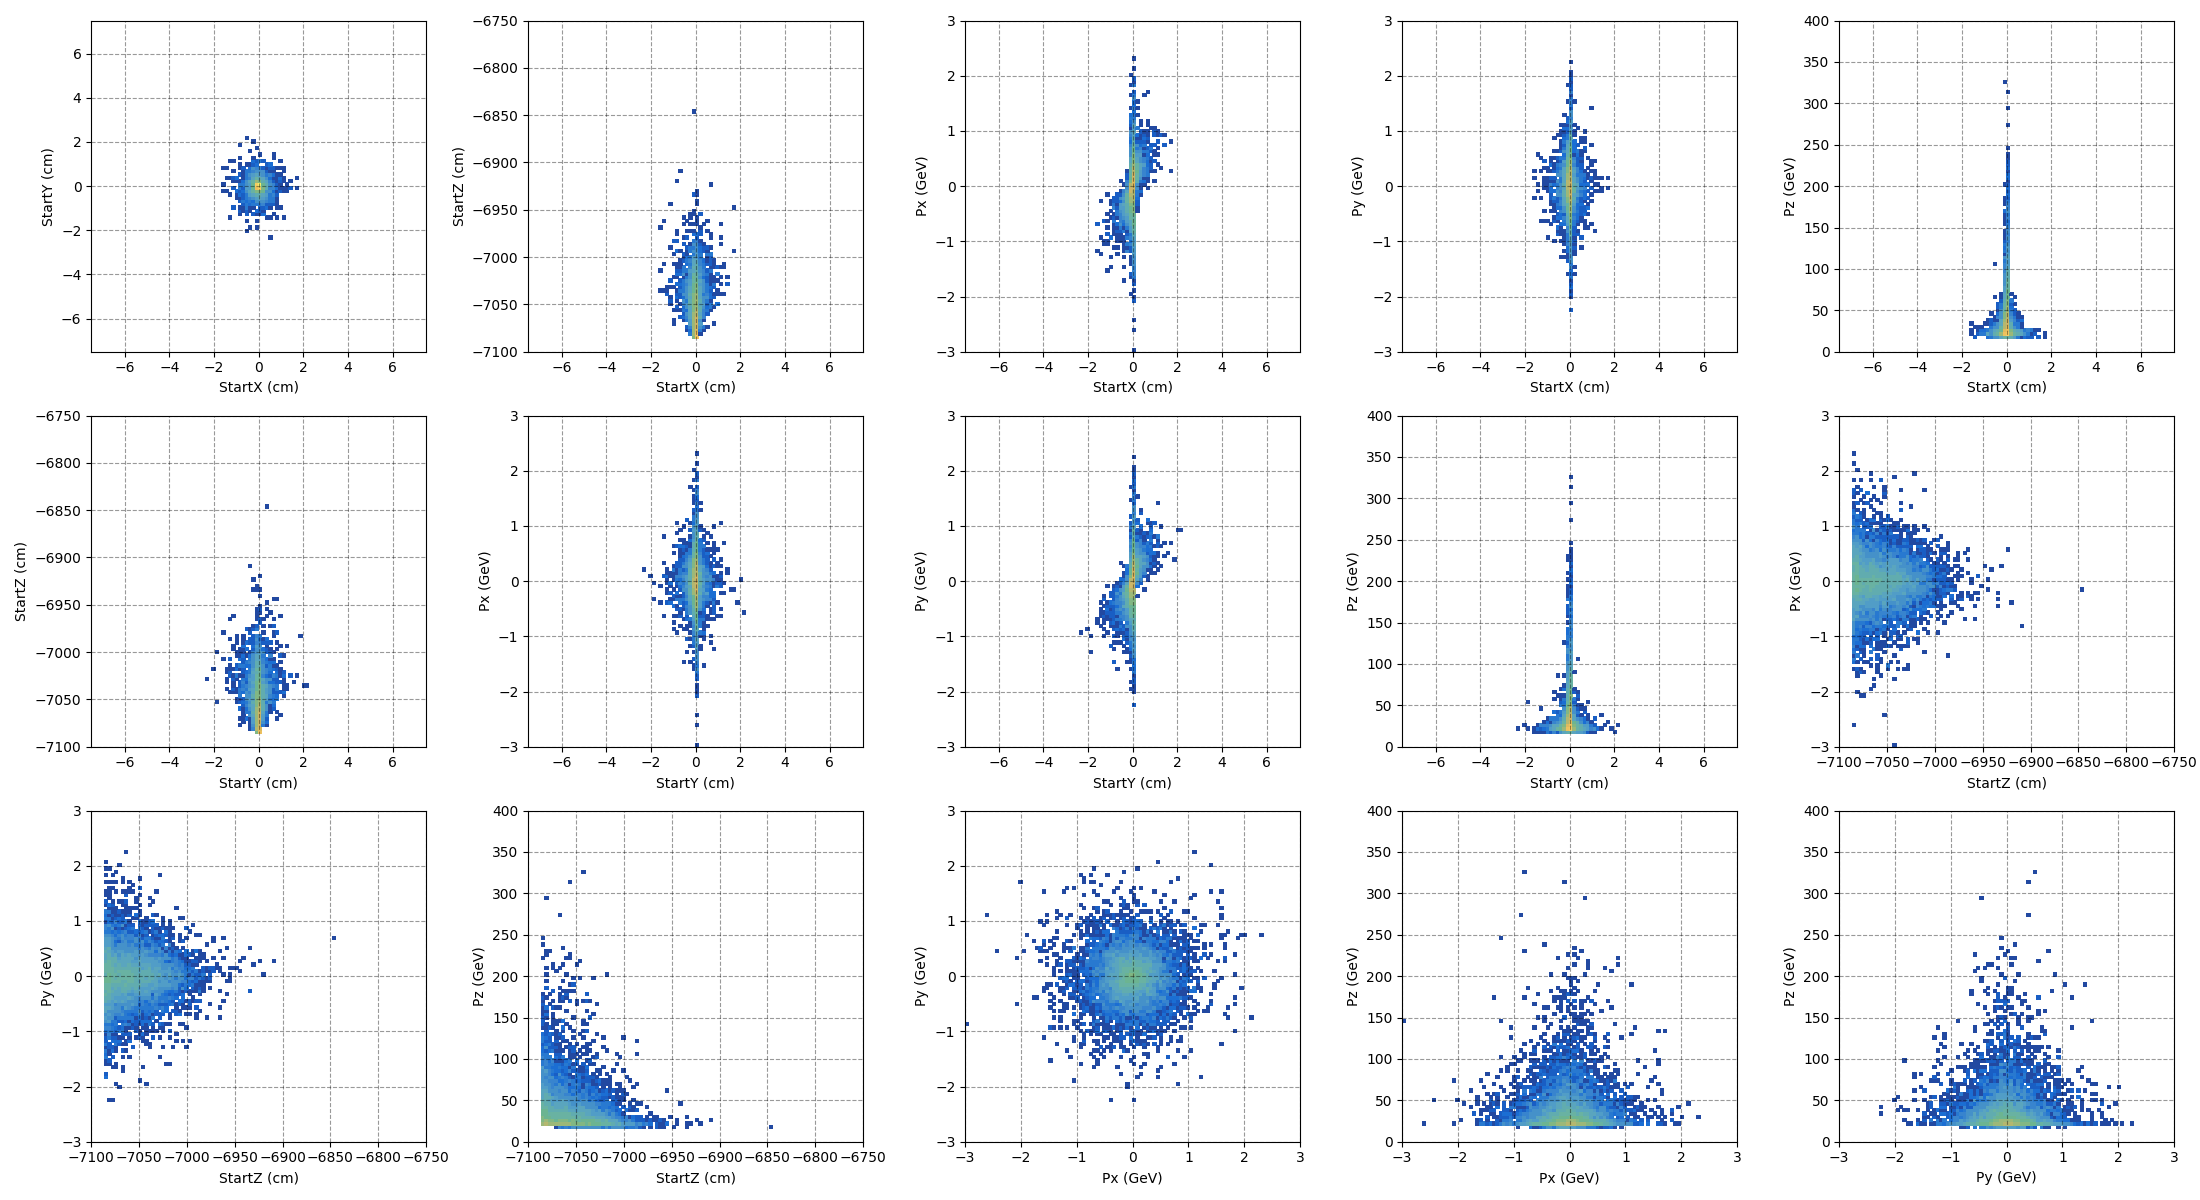
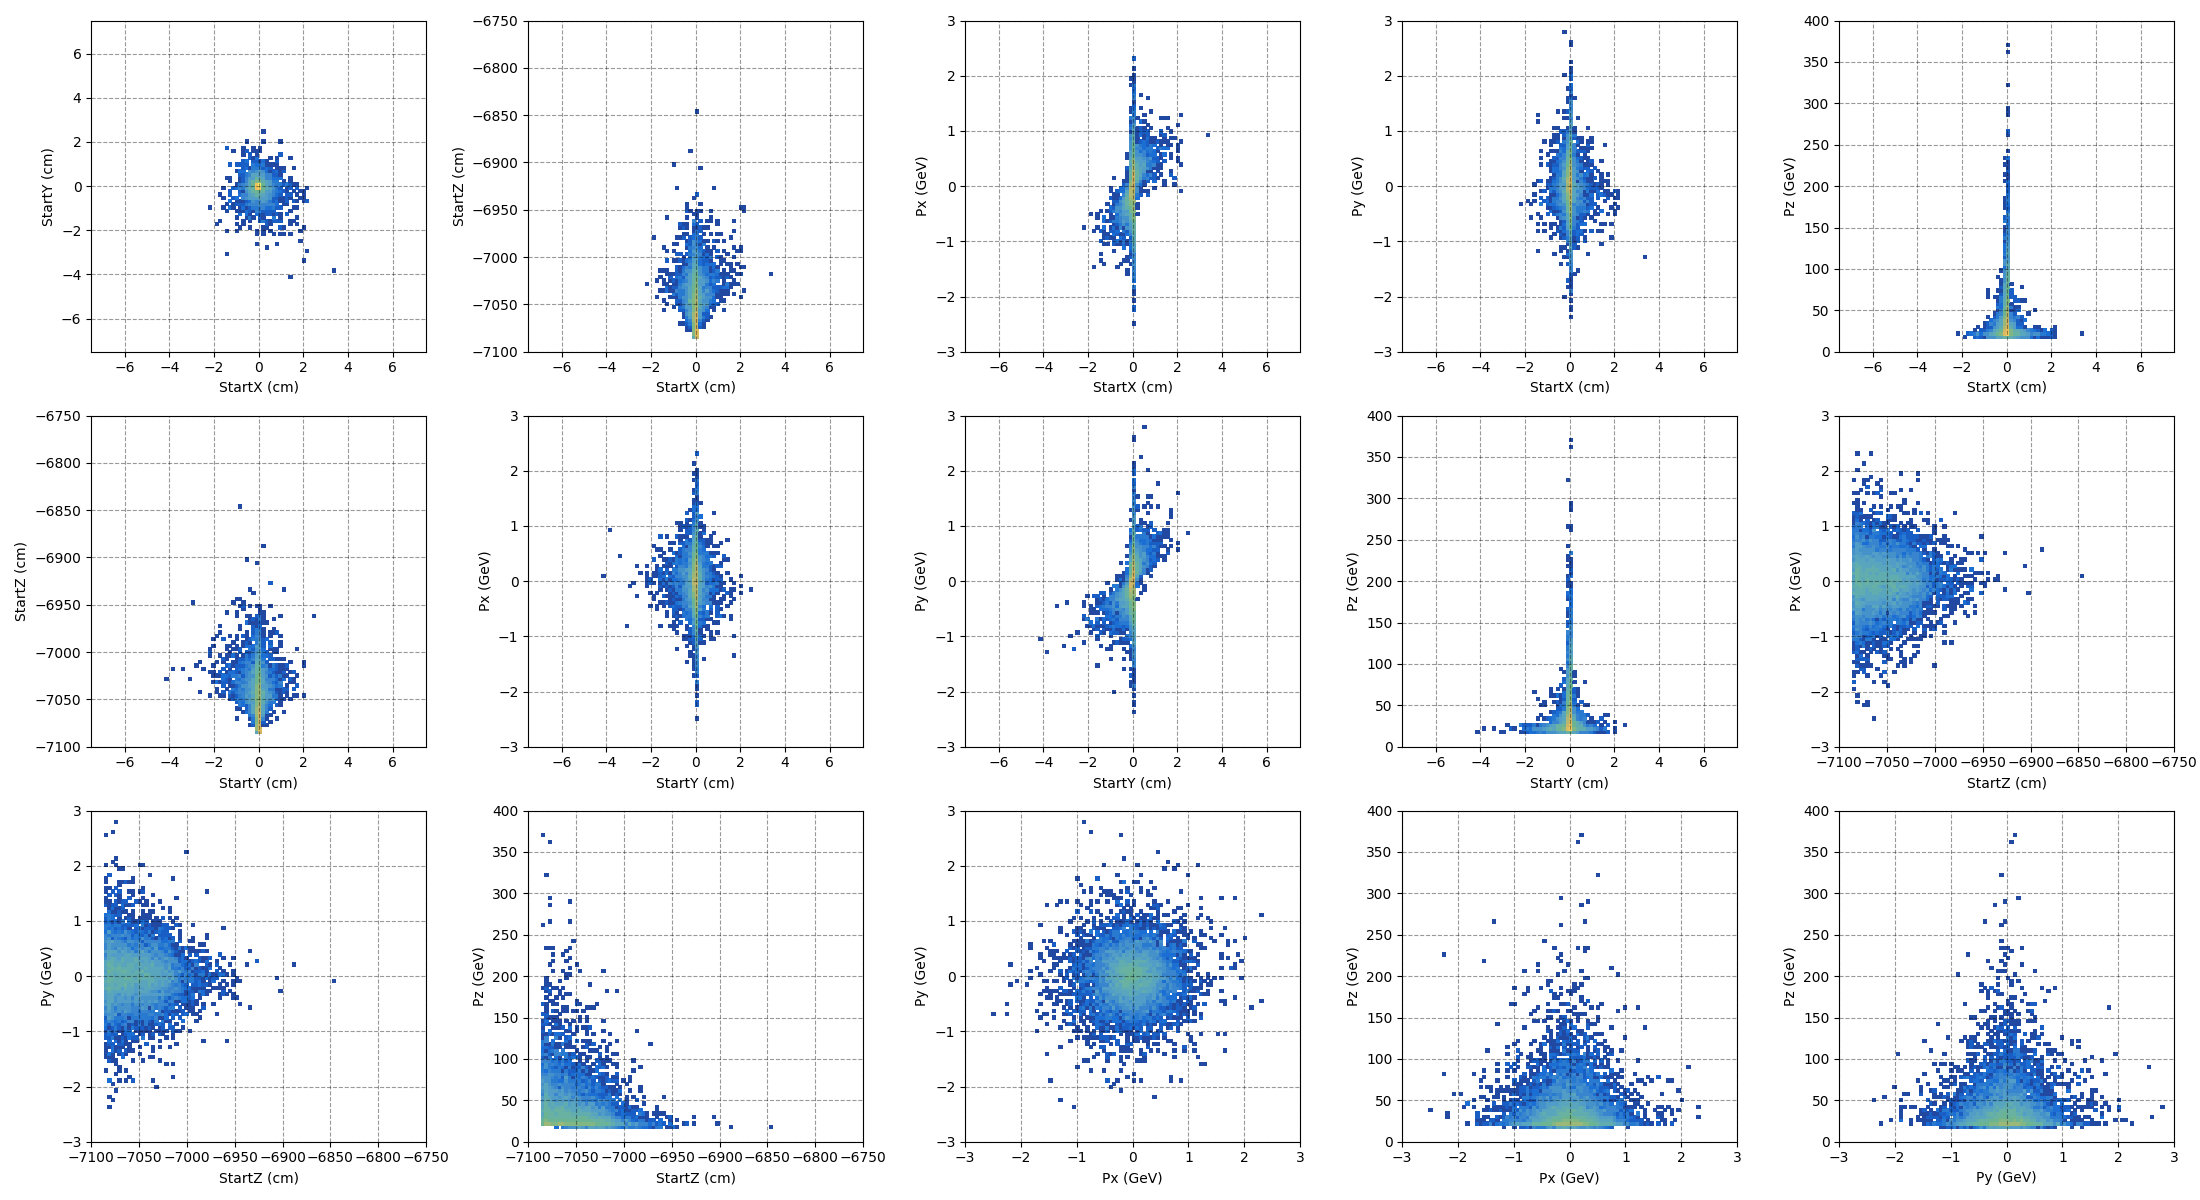
add tuned aux values

diff --git a/SHiP_GAN_module/muGAN.py b/SHiP_GAN_module/muGAN.py
@@ -101,17 +101,106 @@ class muGAN:
 		return self.min_max_plot, self.cmp_root, self.axis_titles
 
 
+	def generate_aux_tuned(self, size):
+		''' Generate tuned auxiliary distribution, will parameterise later. '''
+
+		xy_aux = np.abs(np.random.gumbel(loc=0.1,scale=0.8,size=(size)))
+
+		####################
+
+		z_aux = np.abs(np.random.normal(loc=0,scale=1,size=(size)))
+		fraction_gumbel = 1E-2
+		floor = int(np.floor(size*fraction_gumbel))
+		if floor > 0:
+			number = np.random.poisson(lam=floor)
+			if number > 0:
+				z_aux[-number:] = np.abs(np.random.gumbel(loc=0,scale=1,size=(np.shape(z_aux[-number:]))))
+				z_aux = np.take(z_aux,np.random.permutation(z_aux.shape[0]),axis=0,out=z_aux)
+
+		fraction_low_to_redistribute = 0.27
+
+		floor = int(np.floor(size*fraction_low_to_redistribute))
+		if floor > 0:
+			number = np.random.poisson(lam=floor)
+			list_for_np_choice = np.arange(0, np.shape(z_aux)[0])
+			redistribute = np.random.choice(list_for_np_choice, p=(1/(z_aux))/np.sum(1/(z_aux)), size=number, replace=False)
+			if number > 0:
+				z_aux_non_delete = np.delete(z_aux, redistribute, axis=0)
+				list_for_np_choice = np.arange(0, np.shape(z_aux_non_delete)[0])
+				z_aux[redistribute] = z_aux_non_delete[np.random.choice(list_for_np_choice, size=np.shape(z_aux[redistribute])[0], replace=False)]
+		####################
 
 
-	def generate(self, size):
+		pxpy_aux = np.abs(np.random.normal(loc=0,scale=1,size=(size)))
+		fraction_gumbel = 1E-2
+		floor = int(np.floor(size*fraction_gumbel))
+		if floor > 0:
+			number = np.random.poisson(lam=floor)
+			if number > 0:
+				pxpy_aux[-number:] = np.abs(np.random.gumbel(loc=0,scale=1,size=(np.shape(pxpy_aux[-number:]))))
+				pxpy_aux = np.take(pxpy_aux,np.random.permutation(pxpy_aux.shape[0]),axis=0,out=pxpy_aux)
+
+
+		fraction_low_to_redistribute = 0.12
+
+		floor = int(np.floor(size*fraction_low_to_redistribute))
+		if floor > 0:
+			number = np.random.poisson(lam=floor)
+			list_for_np_choice = np.arange(0, np.shape(pxpy_aux)[0])
+			redistribute = np.random.choice(list_for_np_choice, p=(1/(pxpy_aux))/np.sum(1/(pxpy_aux)), size=number, replace=False)
+			if number > 0:
+				z_aux_non_delete = np.delete(pxpy_aux, redistribute, axis=0)
+				list_for_np_choice = np.arange(0, np.shape(z_aux_non_delete)[0])
+				pxpy_aux[redistribute] = z_aux_non_delete[np.random.choice(list_for_np_choice, size=np.shape(pxpy_aux[redistribute])[0], replace=False)]
+
+
+		####################
+
+		pz_aux = np.abs(np.random.normal(loc=0,scale=1,size=(size)))
+		fraction_wider = 0.005
+		floor = int(np.floor(size*fraction_wider))
+		if floor > 0:
+			number = np.random.poisson(lam=floor)
+			if number > 0:
+				pz_aux[-number:] = np.abs(np.random.normal(loc=0,scale=1.3,size=(np.shape(pz_aux[-number:]))))
+				pz_aux = np.take(pz_aux,np.random.permutation(pz_aux.shape[0]),axis=0,out=pz_aux)
+
+		fraction_low_to_redistribute = 0.2
+
+		floor = int(np.floor(size*fraction_low_to_redistribute))
+		if floor > 0:
+			number = np.random.poisson(lam=floor)
+			list_for_np_choice = np.arange(0, np.shape(pz_aux)[0])
+			redistribute = np.random.choice(list_for_np_choice, p=(1/(pz_aux))/np.sum(1/(pz_aux)), size=number, replace=False)
+			if number > 0:
+				z_aux_non_delete = np.delete(pz_aux, redistribute, axis=0)
+				list_for_np_choice = np.arange(0, np.shape(z_aux_non_delete)[0])
+				pz_aux[redistribute] = z_aux_non_delete[np.random.choice(list_for_np_choice, size=np.shape(pz_aux[redistribute])[0], replace=False)]
+
+		####################
+
+		length = np.amin([np.shape(z_aux)[0], np.shape(xy_aux)[0], np.shape(pxpy_aux)[0], np.shape(pz_aux)[0]])
+
+		tuned_aux = np.swapaxes([xy_aux[:length], z_aux[:length], pxpy_aux[:length], pz_aux[:length]],0,1)
+
+		return tuned_aux
+
+
+
+
+
+	def generate(self, size, tuned_aux = True):
 		''' Generate muon kinematic vectors with normally distributed auxiliary values. '''
 
 		if size > 50000:
-			images = self.generate_large(size)	
+			images = self.generate_large(size, tuned_aux)	
 		else:
 			generator = self.load_generator()
 
-			aux_gan = np.abs(np.random.normal(0, 1, (int(size), 4)))
+			if tuned_aux == False:
+				aux_gan = np.abs(np.random.normal(0, 1, (int(size), 4)))
+			elif tuned_aux == True:
+				aux_gan = self.generate_aux_tuned(int(size))
 			charge_gan = np.expand_dims(np.random.choice([-1,1],size=(size,1),p=[1-self.Fraction_pos,self.Fraction_pos],replace=True),1)
 			gen_noise = np.random.normal(0, 1, (int(size), 100))
 			images = np.squeeze(generator.predict([np.expand_dims(gen_noise,1), np.expand_dims(aux_gan,1), charge_gan]))
@@ -129,7 +218,7 @@ class muGAN:
 		return images
 
 
-	def generate_large(self, size):
+	def generate_large(self, size, tuned_aux = True):
 		''' Generate muon kinematic vectors with normally distributed auxiliary values. '''
 		generator = self.load_generator()
 
@@ -149,7 +238,10 @@ class muGAN:
 
 			print('Generated',np.shape(images_total)[0],'muons so far...')
 
-			aux_gan = np.abs(np.random.normal(0, 1, (int(size_i), 4)))
+			if tuned_aux == False:
+				aux_gan = np.abs(np.random.normal(0, 1, (int(size_i), 4)))
+			elif tuned_aux == True:
+				aux_gan = self.generate_aux_tuned(int(size_i))
 			charge_gan = np.expand_dims(np.random.choice([-1,1],size=(size_i,1),p=[1-self.Fraction_pos,self.Fraction_pos],replace=True),1)
 			gen_noise = np.random.normal(0, 1, (int(size_i), 100))
 			images = np.squeeze(generator.predict([np.expand_dims(gen_noise,1), np.expand_dims(aux_gan,1), charge_gan]))
@@ -159,7 +251,10 @@ class muGAN:
 			images_total = np.append(images_total, images, axis=0)
 
 		if leftovers > 0:
-			aux_gan = np.abs(np.random.normal(0, 1, (int(leftovers), 4)))
+			if tuned_aux == False:
+				aux_gan = np.abs(np.random.normal(0, 1, (int(leftovers), 4)))
+			elif tuned_aux == True:
+				aux_gan = self.generate_aux_tuned(int(leftovers))
 			charge_gan = np.expand_dims(np.random.choice([-1,1],size=(leftovers,1),p=[1-self.Fraction_pos,self.Fraction_pos],replace=True),1)
 			gen_noise = np.random.normal(0, 1, (int(leftovers), 100))
 			images = np.squeeze(generator.predict([np.expand_dims(gen_noise,1), np.expand_dims(aux_gan,1), charge_gan]))

diff --git a/Generation_examples.py b/Generation_examples.py
@@ -29,7 +29,7 @@ muGAN = muGAN()
 
 ########################################################################################################################################################
 ''' Generate muon vectors with normally distributed auxiliary distributions... '''
-muon_kinematic_vectors = muGAN.generate(size=10000)
+muon_kinematic_vectors = muGAN.generate(size=10000, tuned_aux=True)
 ''' The columns are as follows: Pdg, StartX, StartY, StartZ, Px, Py, Pz. '''
 ''' These vectors can be converted to ROOT files and run in FairShip. '''
 ''' This may be all that is needed for some applications. '''
@@ -40,7 +40,6 @@ muon_kinematic_vectors = muGAN.generate(size=10000)
 ''' Plot kinematics of this generated vector'''
 muGAN.plot_kinematics(data=muon_kinematic_vectors)
 ########################################################################################################################################################
-
 
 
 ########################################################################################################################################################
@@ -66,7 +65,7 @@ muGAN.plot_kinematics(data=muon_kinematic_vectors_enchanced, bins=25, log=False,
 ''' Can widen the distribution on demand in whichever direction required. '''
 ''' This example asks for muons with higher P_t. '''
 size = 10000
-boosted_auxiliary_distribution = np.abs(np.random.normal(0, 1, (size, 4)))
+boosted_auxiliary_distribution = muGAN.generate_aux_tuned(size)
 boosted_auxiliary_distribution[:,2] *= 2
 boosted_muon_kinematic_vectors = muGAN.generate_custom_aux(boosted_auxiliary_distribution)
 ''' Plotting results... '''

diff --git a/README.md b/README.md
@@ -26,7 +26,7 @@ muGAN = muGAN()
 
 To generate physical distributions of muon kinemtics the following command can be used:
 ```
-muon_kinematic_vectors = muGAN.generate(size=10000)
+muon_kinematic_vectors = muGAN.generate(size=10000, tuned_aux=True)
 ```
 
 The library also has a plotting function:
@@ -42,7 +42,7 @@ An example of the results obtained with this procedure are presented in [Generat
 The GANs in this library have conditional style architectures. The generator network has auxiliary inputs which correspond to physical properties of muons. To generate physical muon kinematic distributions these auxiliary inputs should be single tailed normal distributions with a scale of 1. However, to boost the generated output in a certain direction, these auxilary distributions can be widened. Here is and example where we ask for muons with large P_t values:
 ```
 size = 10000
-boosted_auxiliary_distribution = np.abs(np.random.normal(0, 1, (size, 4)))
+boosted_auxiliary_distribution = muGAN.generate_aux_tuned(size) # Start with tuned auxiliary distributions
 boosted_auxiliary_distribution[:,2] *= 2
 boosted_muon_kinematic_vectors = muGAN.generate_custom_aux(boosted_auxiliary_distribution)
 ```
